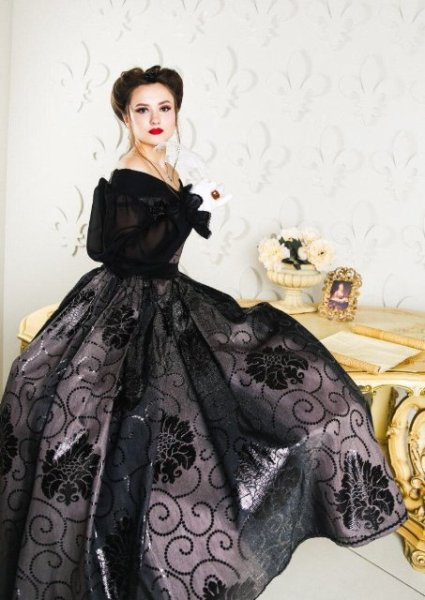
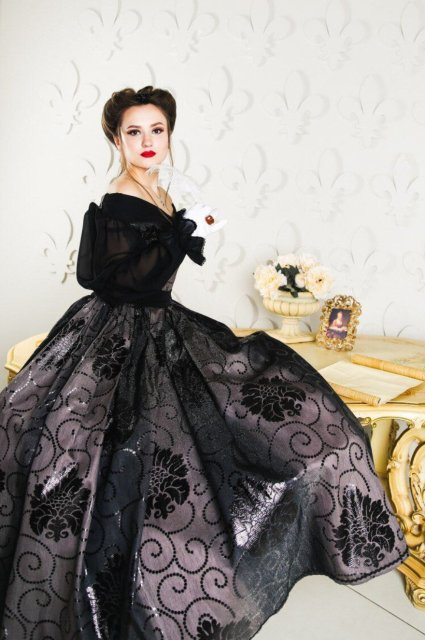
fix alignment, update about us pic

Changed region(s): [[0.0, 0.09, 1.0, 1.0], [0.9788, 0.99, 1.0, 1.0]]

diff --git a/index.html b/index.html
@@ -121,15 +121,15 @@
             <div class="category-grid">
                 <a href="#" class="category-link">
                     <img class="category-image" src="images/renaissance_sm.jpg" alt="shop Renaissance/Baroque">
-                    <h3><a href="#" class="nav-link">Renaissance & Baroque</a></h3>
+                    <h3>Renaissance & Baroque</h3>
                 </a>
                 <a href="#" class="category-link">
                     <img class="category-image" src="images/1887_grey_bustle_gown_sm.jpg" alt="shop Victorian/Edwardian">
-                    <h3><a href="#" class="nav-link">Victorian & Edwardian</a></h3>
+                    <h3>Victorian & Edwardian</h3>
                 </a>
                 <a href="#" class="category-link">
                     <img class="category-image" src="images/modern_gothic_prom_dress_sm.jpg" alt="shop Modern">
-                    <h3><a href="#" class="nav-link">Vintage & Modern</a></h3>
+                    <h3>Vintage & Modern</h3>
                 </a>
             </div>
         </div>
@@ -143,21 +143,21 @@
 
             <div class="category-grid">
                 <a href="#" class="category-link">
-                    <img class="category-image" src="images/baroque_style_shoe_sq.JPG"
+                    <img class="category-image" src="images/baroque_shoes_sq.JPG"
                     alt="shop Renaissance/Baroque">
-                    <h3><a href="#" class="nav-link">Shoes</a></h3>
+                    <h3>Shoes</h3>
                 </a>
                 <a href="#" class="category-link">
                     <img class="category-image" src="images/retro_hat_sq.jpg" alt="shop Regency">
-                    <h3><a href="#" class="nav-link">Hats</a></h3>
+                    <h3>Hats</h3>
                 </a>
                 <a href="#" class="category-link">
                     <img class="category-image" src="images/corset_sq.png" alt="shop Victorian/Edwardian">
-                    <h3><a href="#" class="nav-link">Corsets and Underpinnings</a></h3>
+                    <h3>Corsets and Underpinnings</h3>
                 </a>
                 <a href="#" class="category-link">
                     <img class="category-image" src="images/1887_grey_bustle_gown_sq.jpg" alt="shop Modern">
-                    <h3><a href="#" class="nav-link">Bags, Gloves, Parasols</a></h3>
+                    <h3>Bags, Gloves, Parasols</h3>
                 </a>
             </div>
         </div>
@@ -259,7 +259,8 @@
         <!-- Info about AG -->
         <div class="more-info">
             <h2 class="section-header">About Us</h2>
-            <a class="our-images" href="#"><img src="images/our_storytextblock.jpg" alt="Learn the story of Authentic Grace"></a>
+            <a class="our-images" href="#"><img src="images/1927_flappers.jpg" alt="Learn the story of Authentic Grace">
+            <h3>Our Story</h3></a>
                 </div>
         <!-- End of Info about AG -->
         <br>
